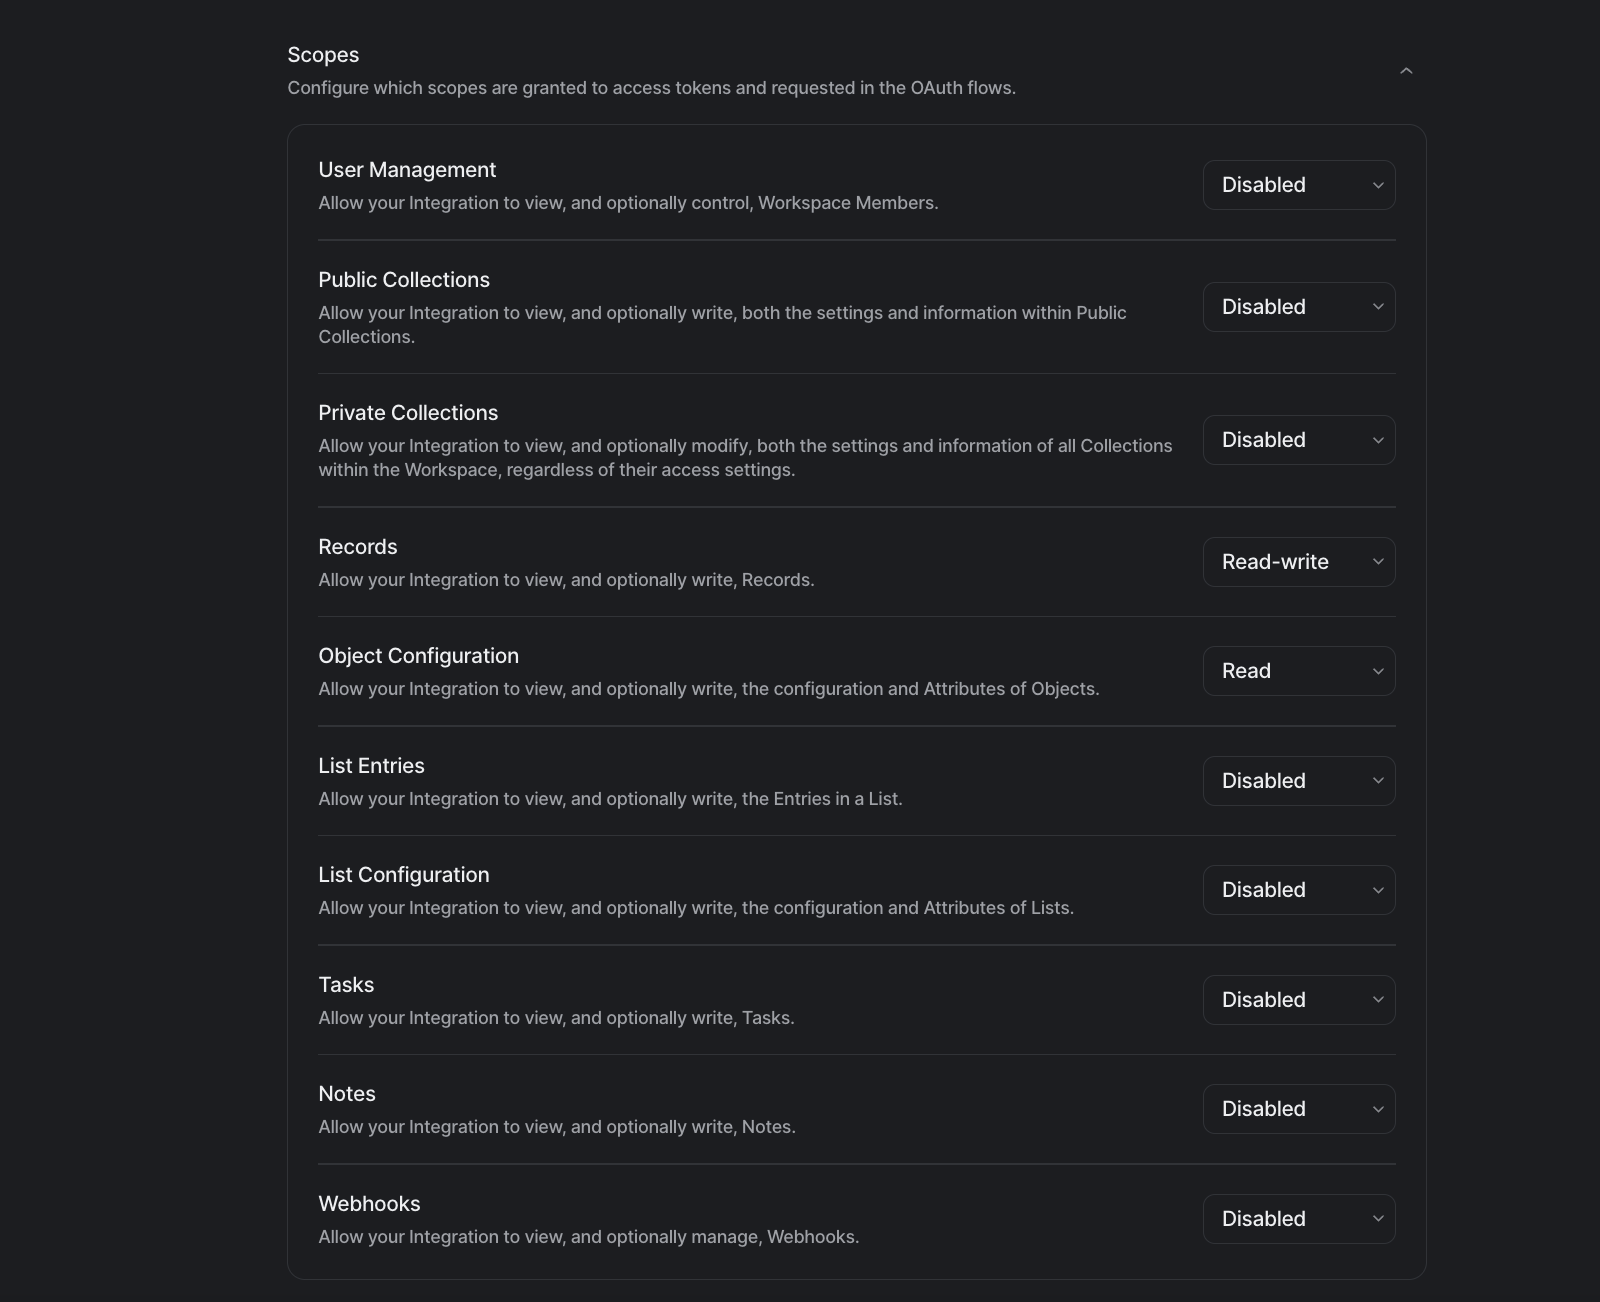
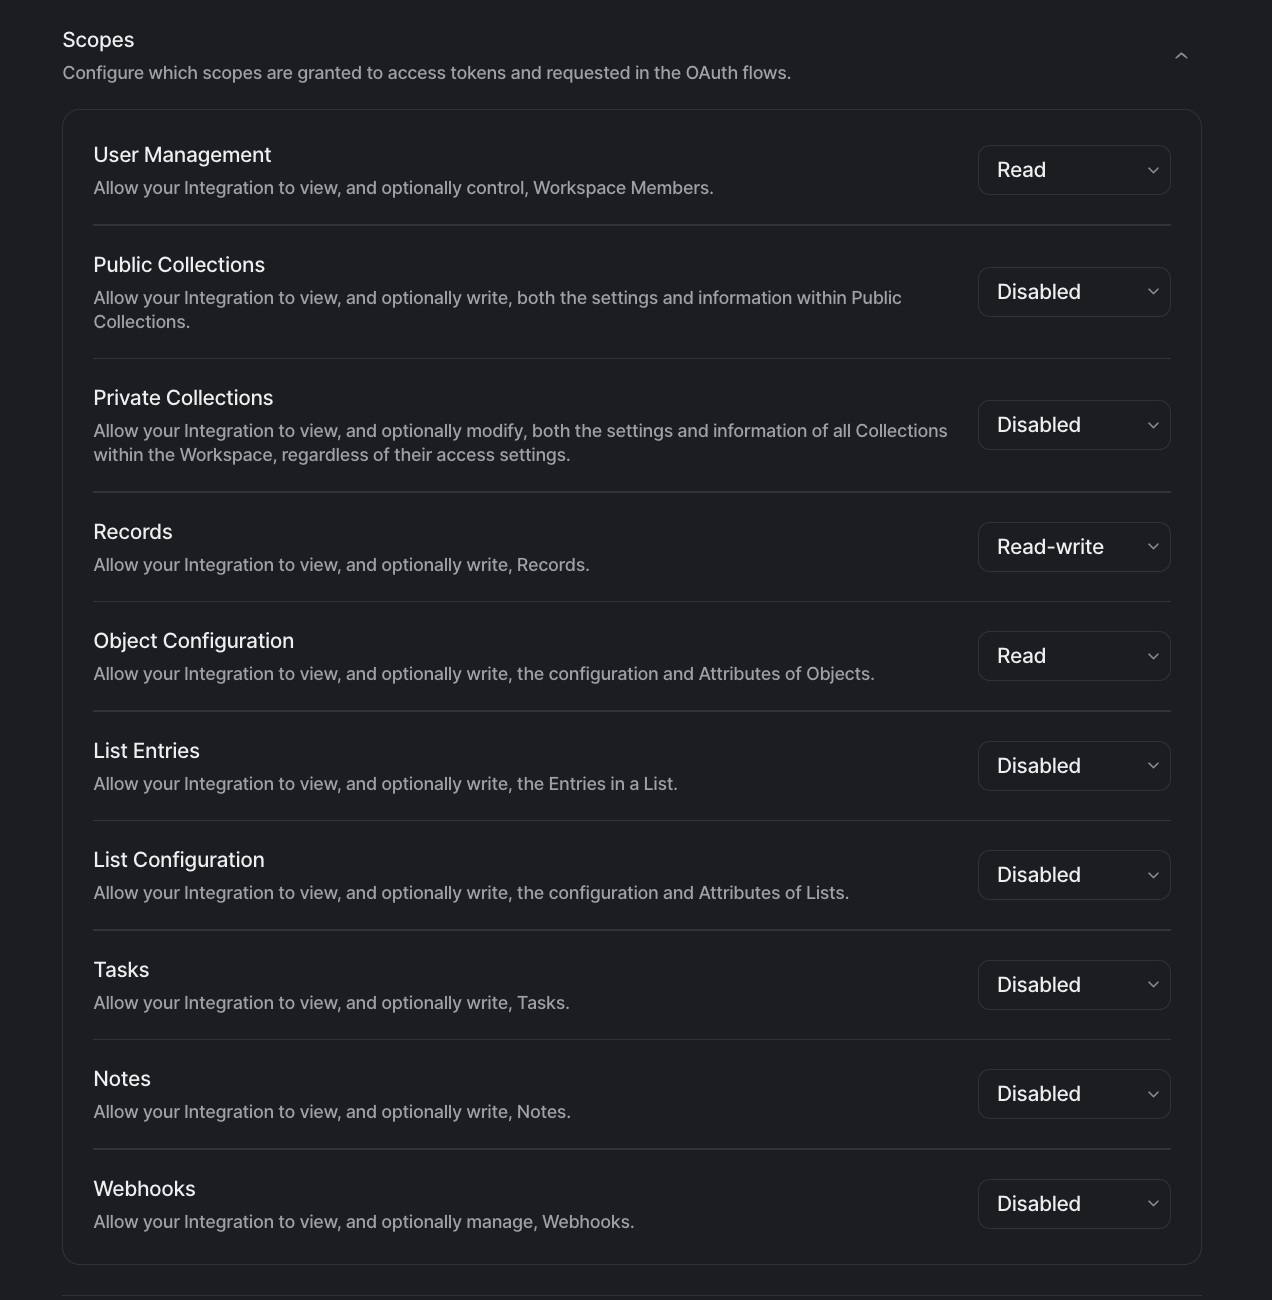
some punctuation, updated scopes, h2, upsert only-> update and create

diff --git a/destinations/attio.md b/destinations/attio.md
@@ -13,7 +13,7 @@ description: This page describes how to use Census with Attio.
         <figure><img src="../.gitbook/assets/attio-developers.png" alt=""><figcaption></figcaption></figure>
    2. Once the integration is created, a new access token will be available within your new integration. Copy this value.
         <figure><img src="../.gitbook/assets/attio-access-token.png" alt=""><figcaption></figcaption></figure>
-   3. Ensure your access token has `Read/Write` access for `Record` as well as `Read` access for `Object Configuration` under the `Scopes` section
+   3. Ensure your access token has `Read/Write` access for `Record` as well as `Read` access for `Object Configuration` and `Read` access for `User Management` under the `Scopes` section.
         <figure><img src="../.gitbook/assets/attio-scopes.png" alt=""><figcaption></figcaption></figure>
 4. Return to Census and paste the access token under **API Token**.
 
@@ -22,13 +22,15 @@ description: This page describes how to use Census with Attio.
 
 | **Object Name** | **Supported?** | **Identifiers**      | **Behaviors** |
 |----------------:| :------------: |----------------------|---------------|
-|         Company | ✅ | Any unique attribute | Upsert Only   |
-|          People | ✅ | Any unique attribute | Upsert Only   |
-|  Custom Objects | ✅ | Any unique attribute | Upsert Only   |
+|         Company | ✅ | Any unique attribute | Update or Create   |
+|          People | ✅ | Any unique attribute | Update or Create   |
+|  Custom Objects | ✅ | Any unique attribute | Update or Create   |
 
-### Record References
+[Contact us](mailto:support@getcensus.com) if you want Census to support more Attio objects and/or behaviors.
 
-Fields of type `Record Reference` are taken in as an array of objects. Below is an example of the expected format
+## Record References
+
+Fields of type `Record Reference` are taken in as an array of objects. Below is an example of the expected format:
 ```
 [
     {
@@ -41,11 +43,6 @@ Fields of type `Record Reference` are taken in as an array of objects. Below is 
     }
 ],
 ```
-
-
-
-
-[Contact us](mailto:support@getcensus.com) if you want Census to support more Attio objects and/or behaviors.
 
 ## 🚑 Need help connecting to Attio?
 
